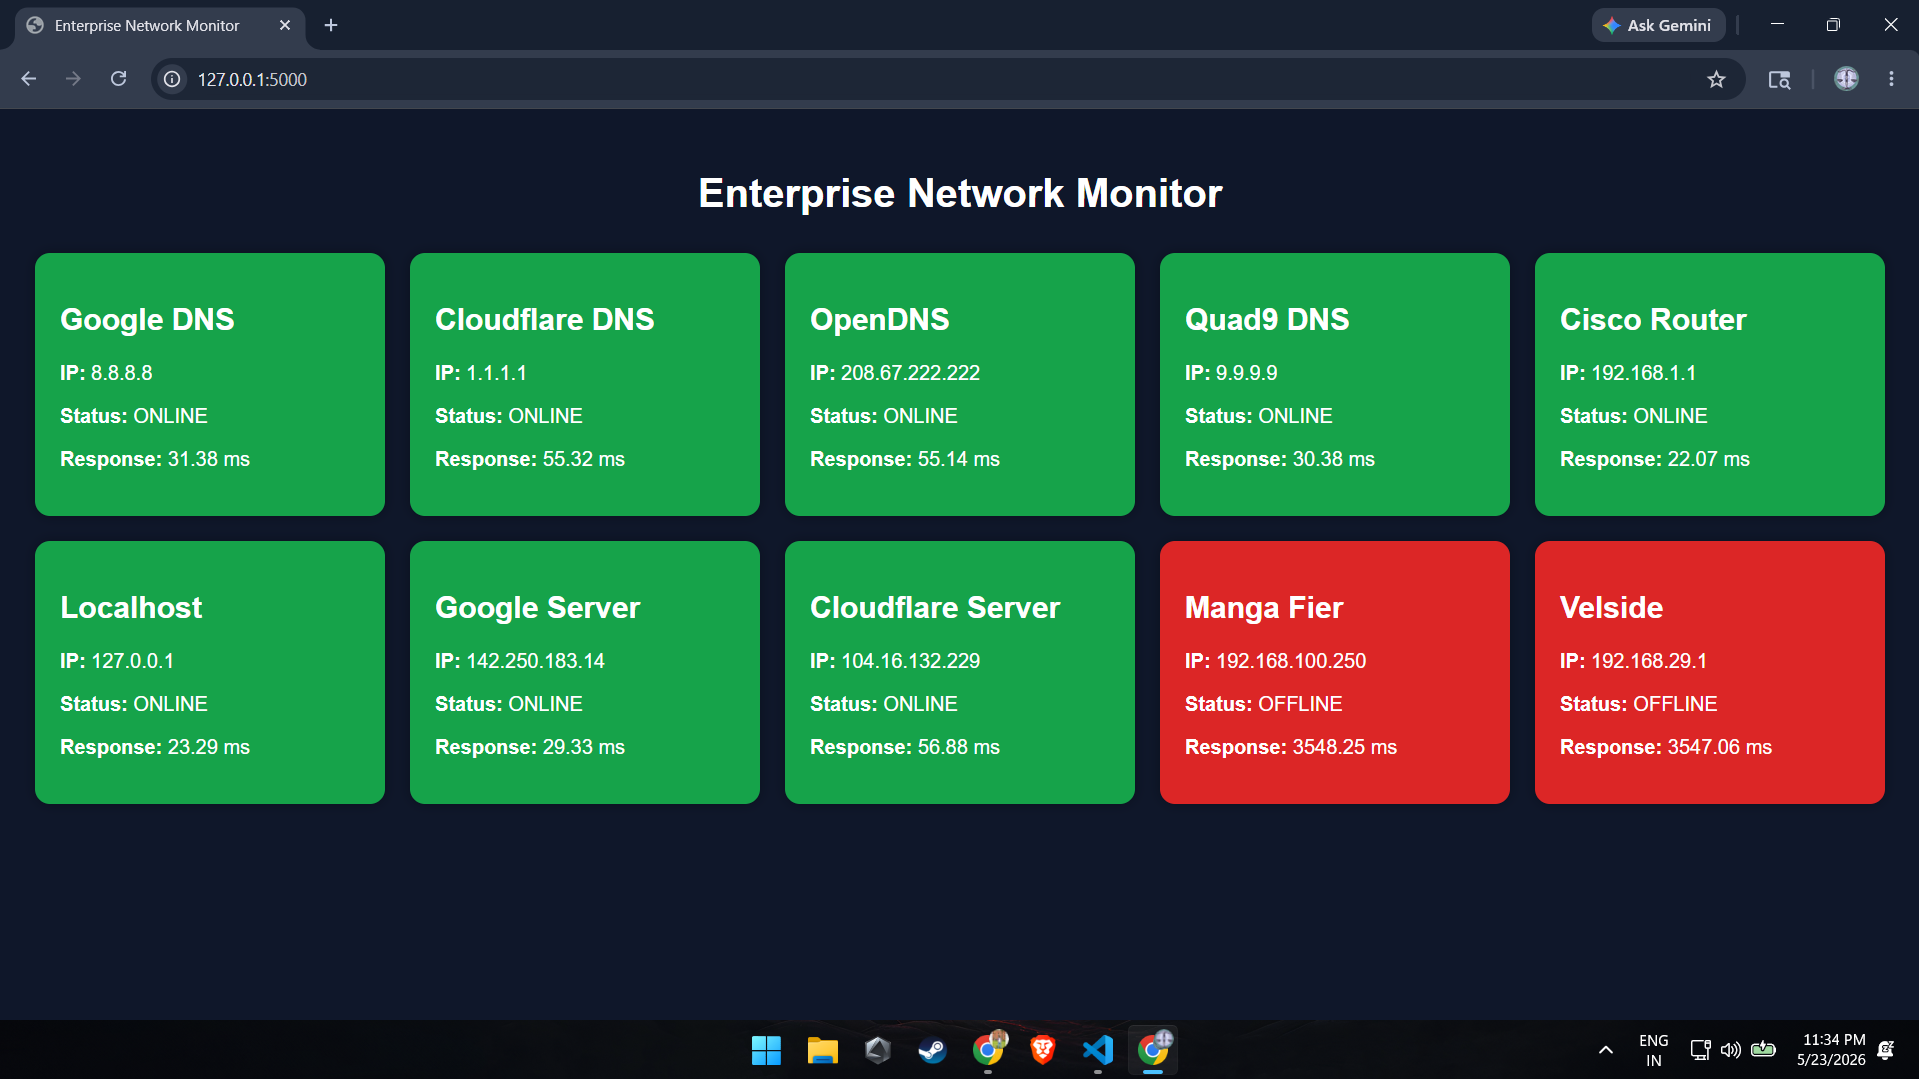
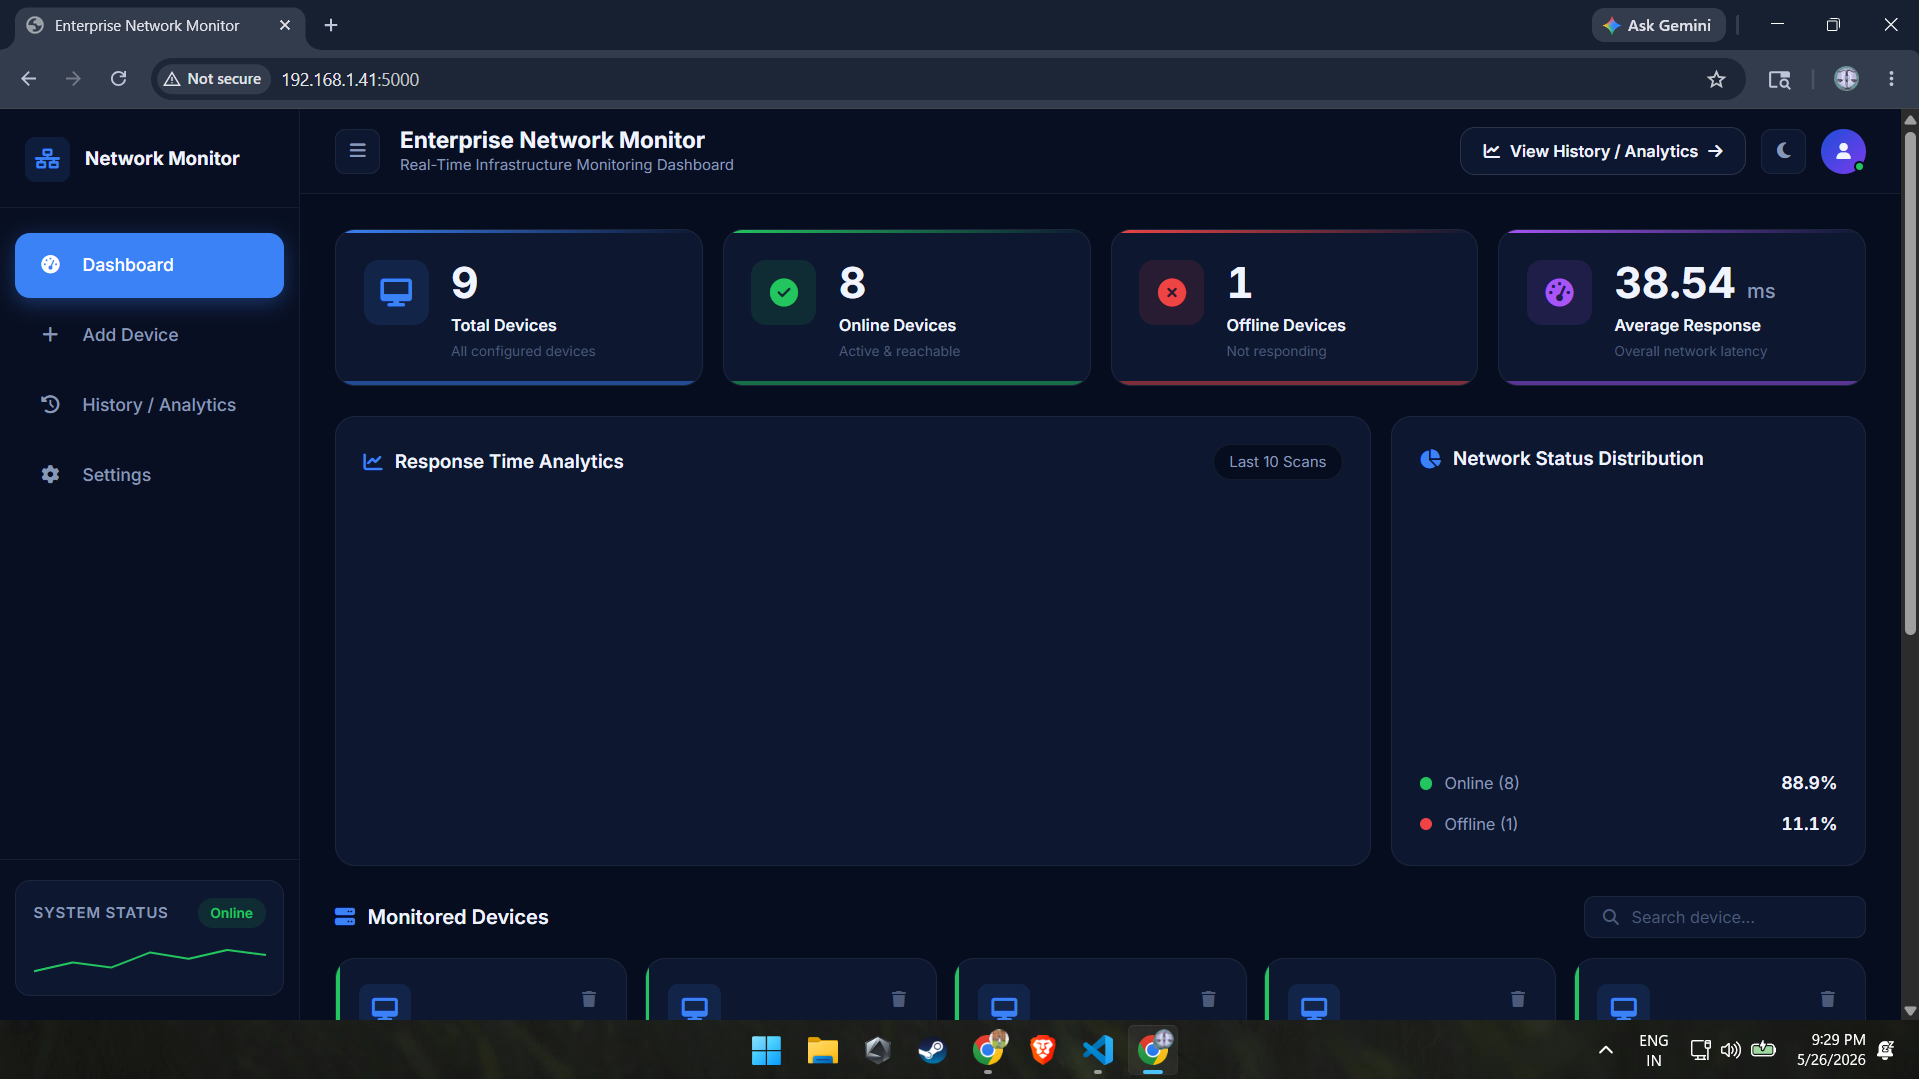
Updated professional README with screenshots

diff --git a/README.md b/README.md
@@ -1,42 +1,271 @@
-# Enterprise Network Monitor
+# 🚀 Enterprise Network Monitor
 
-Real-time infrastructure monitoring dashboard built with:
+A modern real-time network infrastructure monitoring dashboard built using **Python, Flask, SQLite, Socket.IO, HTML/CSS/JS**.
 
-- Python
-- Flask
-- Flask-SocketIO
-- SQLite
-- Chart.js
-- Multithreading
+This system continuously monitors devices using ICMP ping requests and provides:
 
-## Features
-
-- Real-time device monitoring
-- Live WebSocket updates
-- Historical analytics
-- Search filtering
-- Responsive dashboard
+- Real-time device health monitoring
+- Live analytics dashboard
+- Historical monitoring logs
 - Online/offline tracking
-- SQLite logging
+- Response time analytics
+- Professional enterprise UI
+- SQLite log storage
+- Real-time websocket updates
 
-## Tech Stack
+---
 
-- Backend: Flask + Python
-- Frontend: HTML/CSS/JS
-- Database: SQLite
-- Realtime: SocketIO
+## 📸 Application Screenshots
 
-## Installation
+## 🖥 Dashboard
+![Dashboard](screenshots/dashboard.png)
+
+---
+
+## 📊 Analytics Page
+![Analytics](screenshots/analytics.png)
+
+---
+
+## 🌐 Device Monitoring
+![Devices](screenshots/devices.png)
+
+---
+
+# ✨ Features
+
+## ✅ Real-Time Monitoring
+
+- Continuous device monitoring
+- Auto-refreshing dashboard
+- Live online/offline status
+- Response latency tracking
+
+---
+
+## ✅ Enterprise Dashboard UI
+
+- Professional dark theme
+- Responsive sidebar layout
+- Analytics cards
+- Modern device cards
+- Search functionality
+- Animated UI elements
+
+---
+
+## ✅ Historical Analytics
+
+- SQLite database logging
+- Monitoring history table
+- Search & filtering
+- Timestamp tracking
+- Status tracking
+
+---
+
+## ✅ Device Management
+
+- Add new devices
+- Delete devices
+- JSON-based configuration
+- Live updates
+
+---
+
+# 🛠 Tech Stack
+
+| Technology | Usage |
+|---|---|
+| Python | Backend Logic |
+| Flask | Web Framework |
+| Flask-SocketIO | Real-Time Updates |
+| SQLite | Database |
+| HTML5 | Frontend Structure |
+| CSS3 | Styling |
+| JavaScript | Frontend Logic |
+| Font Awesome | Icons |
+
+---
+
+# 📂 Project Structure
+
+```bash
+Network-Monitor/
+│
+├── app.py
+├── database.py
+├── devices.json
+├── requirements.txt
+├── README.md
+├── network_monitor.db
+│
+├── static/
+│   ├── style.css
+│   └── dashboard.js
+│
+├── templates/
+│   ├── dashboard.html
+│   └── analytics.html
+│
+├── screenshots/
+│   ├── dashboard-main.png
+│   ├── devices-section.png
+│   └── analytics-page.png
+│
+└── logs/
+```
+
+---
+
+# ⚙ Installation
+
+## 1⃣ Clone Repository
+
+```bash
+git clone https://github.com/YOUR_USERNAME/Network-Monitor.git
+```
+
+---
+
+## 2⃣ Open Project
+
+```bash
+cd Network-Monitor
+```
+
+---
+
+## 3⃣ Create Virtual Environment
+
+### Windows
+
+```bash
+python -m venv venv
+venv\Scripts\activate
+```
+
+### Linux / Mac
+
+```bash
+python3 -m venv venv
+source venv/bin/activate
+```
+
+---
+
+## 4⃣ Install Dependencies
 
 ```bash
 pip install -r requirements.txt
+```
+
+---
+
+## 5⃣ Run Application
+
+```bash
 python app.py
 ```
 
-## Future Upgrades
+---
 
-- Authentication system
-- Email alerts
-- AI anomaly detection
-- Docker deployment
-- VPS hosting
+# 🌐 Access Application
+
+Open browser:
+
+```bash
+http://127.0.0.1:5000
+```
+
+---
+
+# 📡 Example Monitored Devices
+
+```json
+[
+    {
+        "name": "Google DNS",
+        "ip": "8.8.8.8"
+    },
+    {
+        "name": "Cloudflare DNS",
+        "ip": "1.1.1.1"
+    }
+]
+```
+
+---
+
+# 🧠 How It Works
+
+1. Devices are loaded from `devices.json`
+2. Python backend pings devices periodically
+3. Results are stored in SQLite database
+4. Flask-SocketIO pushes live updates
+5. Dashboard updates automatically in browser
+
+---
+
+# 📈 Upcoming Features
+
+## 🔥 Planned Upgrades
+
+- [ ] Pie charts & graphs
+- [ ] Live websocket charts
+- [ ] User authentication system
+- [ ] Device grouping
+- [ ] Email alerts
+- [ ] Telegram/Discord alerts
+- [ ] Export reports (PDF/CSV)
+- [ ] Device uptime analytics
+- [ ] Docker deployment
+- [ ] Linux server deployment
+- [ ] REST API support
+- [ ] Role-based admin panel
+- [ ] AI anomaly detection
+- [ ] Cloud deployment
+
+---
+
+# 🚀 Future Vision
+
+This project is evolving into a full enterprise-grade infrastructure monitoring system similar to:
+
+- Zabbix
+- PRTG
+- Uptime Kuma
+- Nagios
+
+---
+
+# 👨💻 Author
+
+## RISHIKESH </>
+
+- Full Stack Developer
+- Python Developer
+- AI + Network Systems Enthusiast
+🚀 Open to:
+- Collaborations
+- Freelance Projects
+- Full Stack Development
+- Python Development
+- AI & Automation Projects
+📧 Email: itsrishikeshonly@gmail.com
+💻 GitHub: https://github.com/RISHIKESH2737
+---
+
+# 📄 License
+
+This project is licensed under the MIT License.
+
+---
+
+# ⭐ Support
+
+If you like this project:
+
+- Star the repository ⭐
+- Fork the project 🍴
+- Share feedback 🚀
